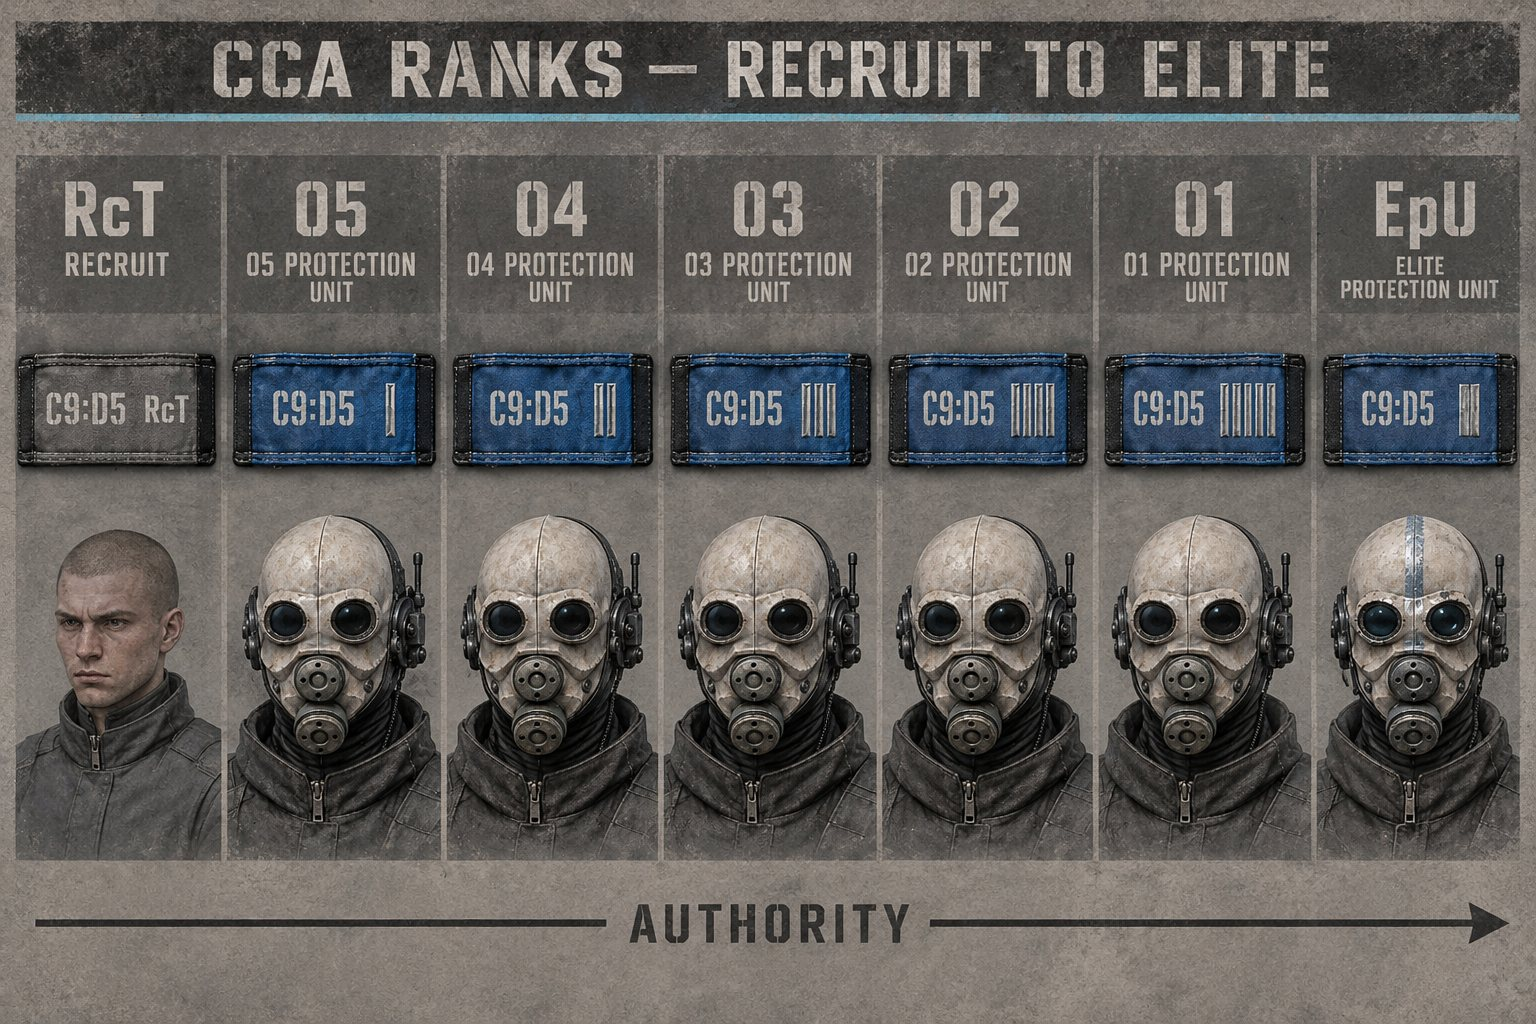
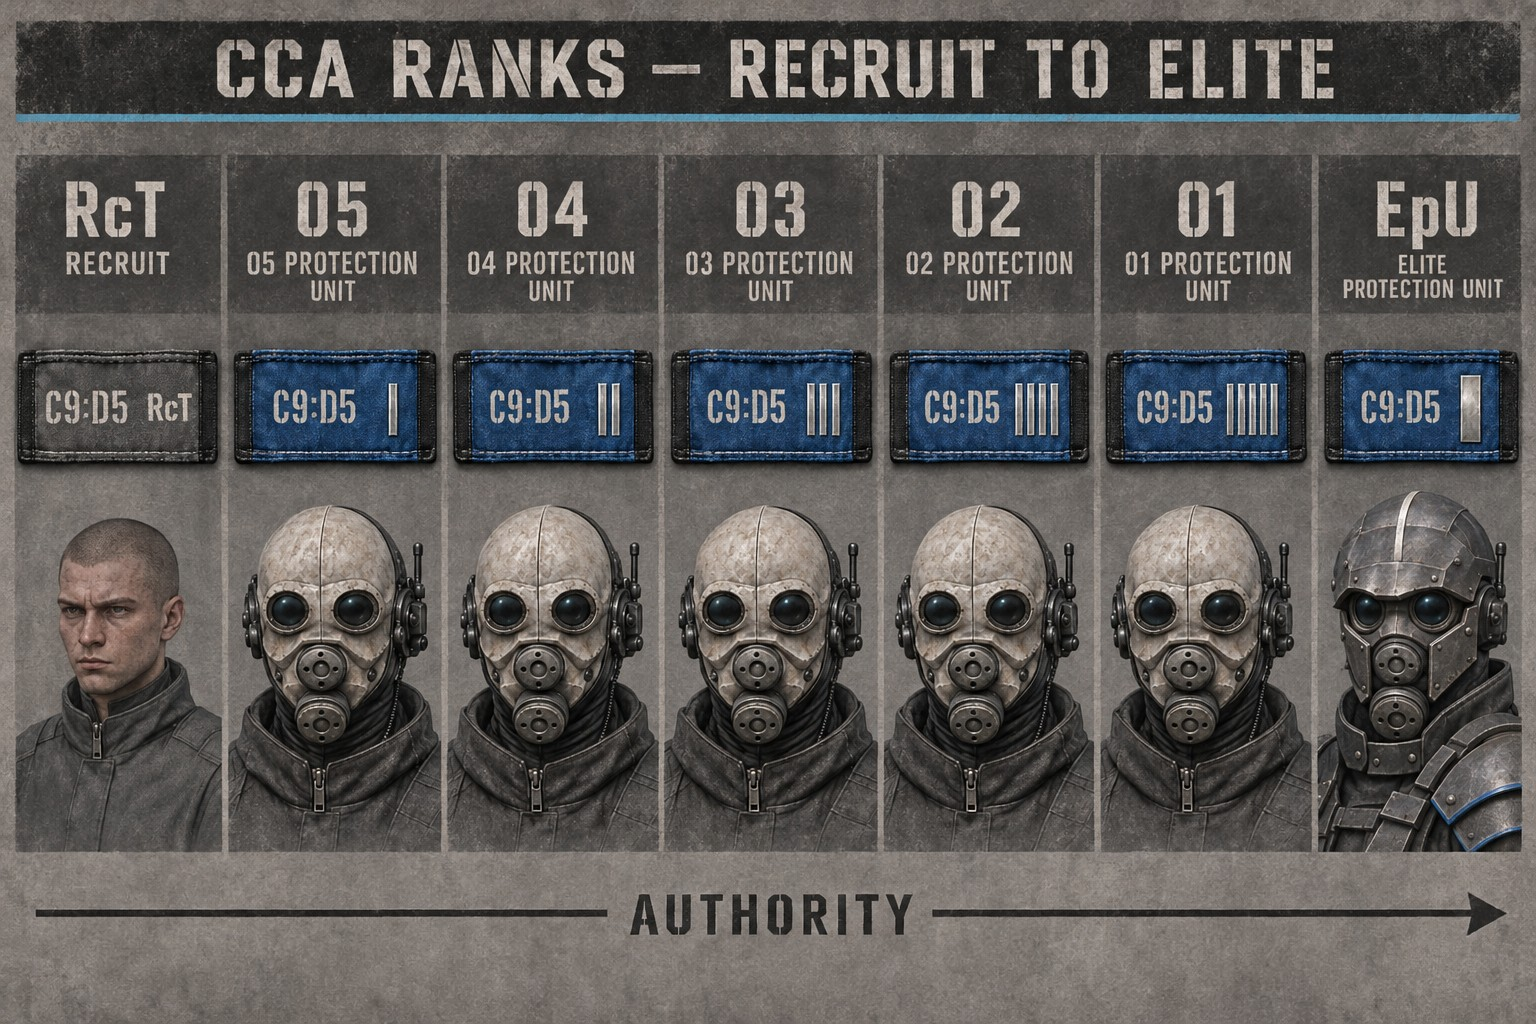
R2 Rev 2 rank sheet; plan the CP weapons sheet
Claude-Session: https://claude.ai/code/session_01FPxW8sjExYByq8Hjg1f5Jc

diff --git a/docs/style-sheet.md b/docs/style-sheet.md
@@ -2033,7 +2033,15 @@ Bifoga: 1 portraits/mira (ljus och utsnitt) · 2 ref/dvl-helmet · 3 ref/dvl-arm
 
 Mellansteget mellan manskap och officerare. EpU har en egen pansarhjälm, ett skal av gunmetal plasteel ovanpå den keramiska masken. Skalet har pannskydd, kindskydd, en nitad krage runt den tvådelade andningsdelen, stålringar runt linserna och en tunn silverlinje över hjässan. Till det kommer plattbärare med ledade axelskydd och en egen ljuddämpad MP7A1 med holografiskt sikte. Officerare lämnar tillbaka pansarhjälmen. I spelet: hjälm, plattbärare och personlig MP7 i Issued kit; skador minskas med en fjärdedel från EpU; Firearms +12.
 
-**Klar (2026-11-15):** H2 inlagd (codex CCA Hierarchy och Civil Authority equipment). Nästa: R2 Rev 2 (`ranks-enlisted.jpg`), bifoga 1 ranks-enlisted (gamla) · 2 uniform-epu · 3 ref/02-helmet.
+**Klar (2026-11-15):** H2 inlagd (codex CCA Hierarchy och Civil Authority equipment). R2 Rev 2 (`ranks-enlisted.jpg`) inlagd: EpU med pansarhjälm, manskap utan rand.
+
+## 5z. VAPENARK (Civil Protection, basutrustning)
+
+| Bild | Fil i spelet | Bifoga i ordning |
+|---|---|---|
+| W1 CP-vapen och armoury | `weapons-cp.jpg` | 1 master-a · 2 uniform-union · 3 uniform-epu |
+
+Batong (med lägen och låst MAX), USP-Match 9mm, MP7A1 (passutlämning och EpU:s personliga), fällkniv, handbojor och buntband, folkmassesköld, ammunition och armoury-märkning. Inga tillverkarmärken. Inte Overwatch.
 
 ## 5j. NYA DIVISIONER: VECTOR, GRID, VEIL
 
